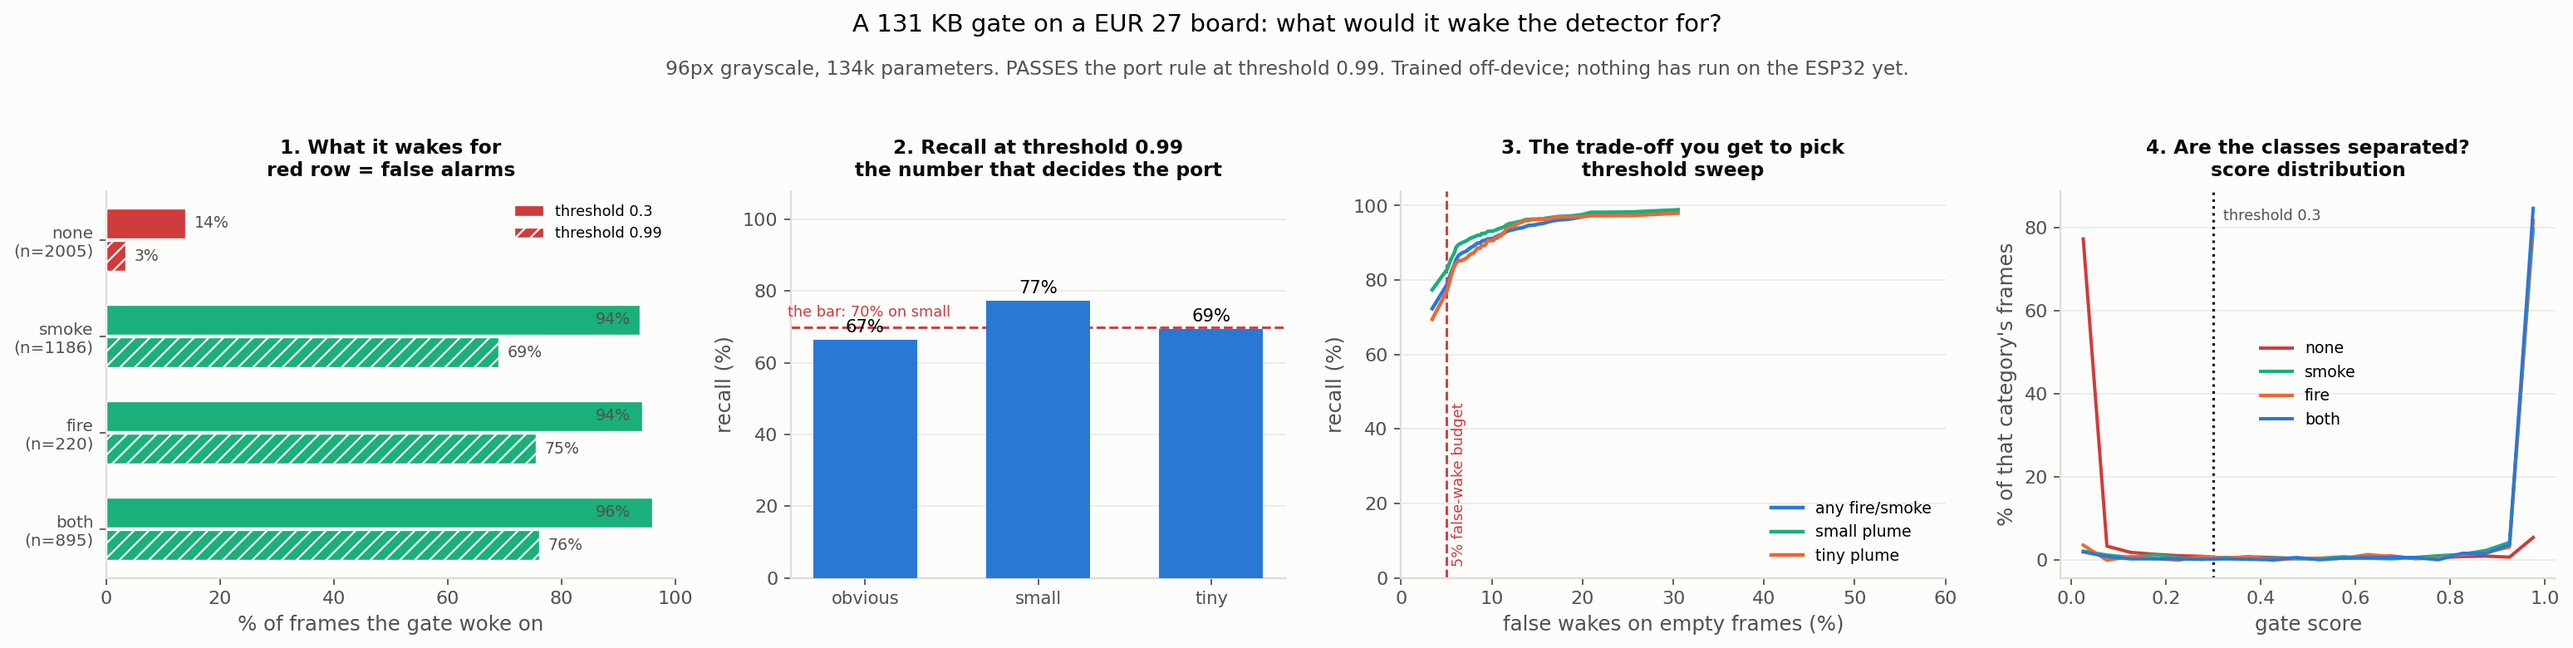
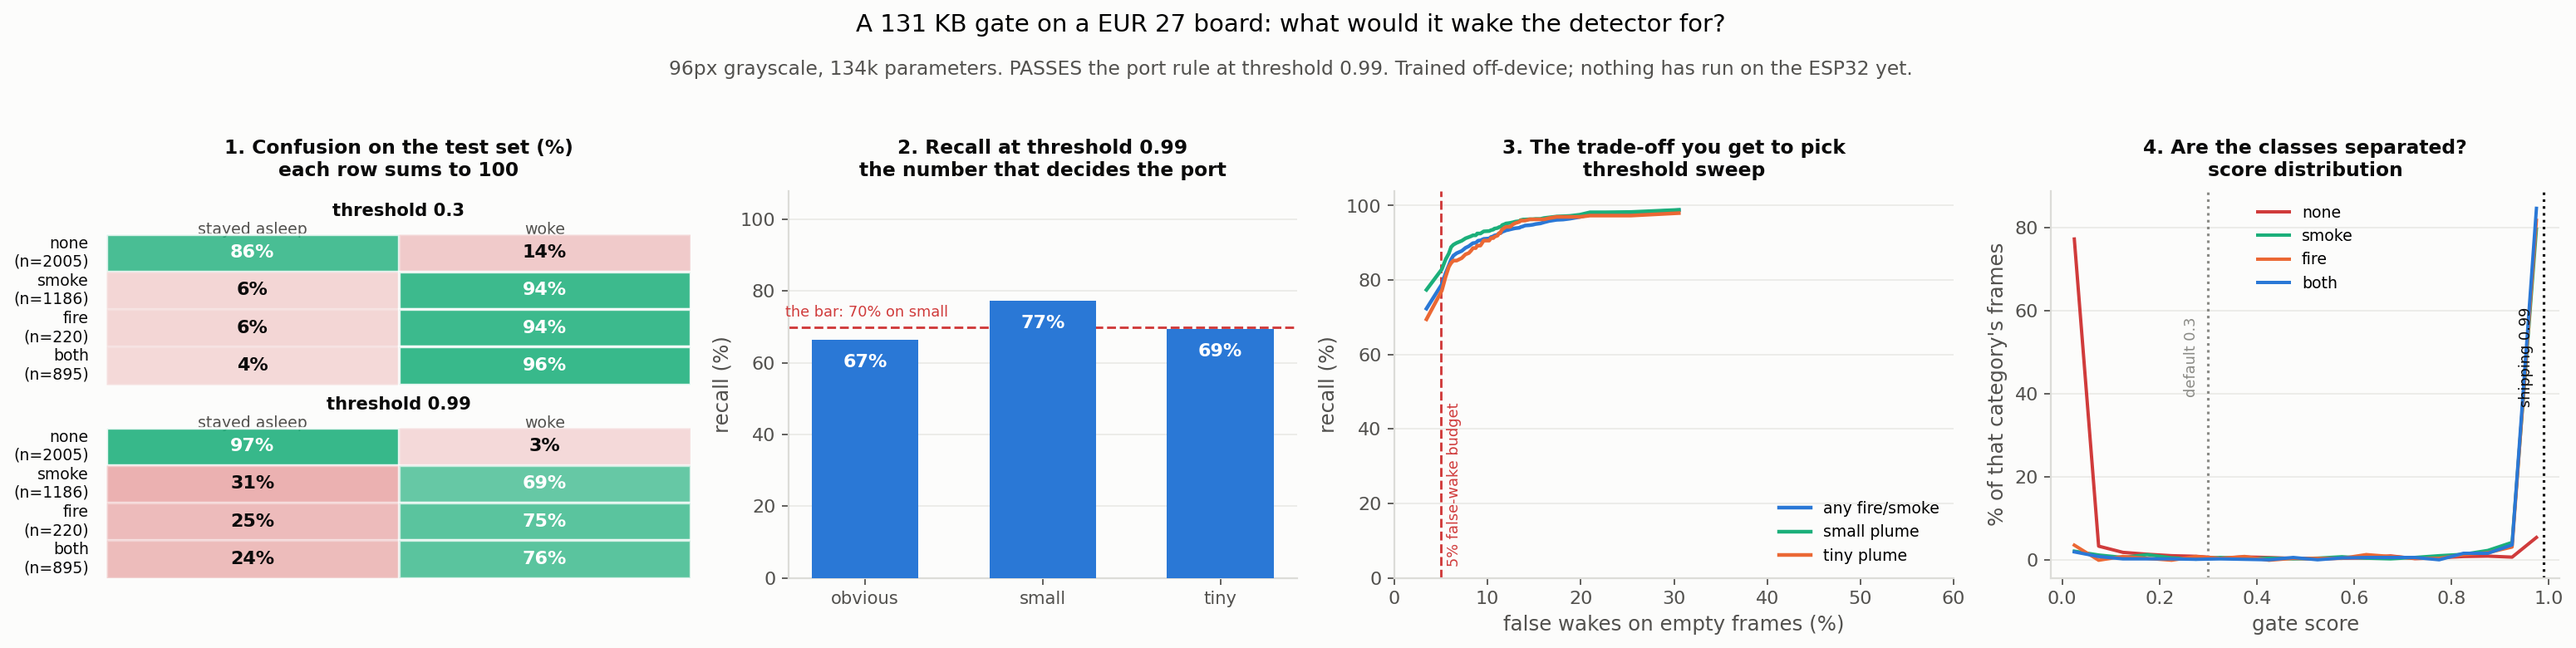
XP15: draw the confusion as a matrix, not as bars
Bars made the reader compare lengths across four categories to work out what the
gate does; a row-normalised matrix says it directly, and one cell reads "of the
frames that really were this, the gate did that".

Row-normalised on purpose: 'none' has 2005 frames and 'fire' has 220, so raw
counts would colour the class balance rather than the behaviour. Cells are green
where the gate did the right thing and red where it did not, which differs by row
-- for 'none' the correct answer is to stay asleep, for every other row it is to
wake -- so the diagonal is not the good one and colouring by position would be
wrong.

Both thresholds are shown stacked because they are two different products: 0.3
wakes on 94-96% of real fires and cries wolf on one empty frame in seven, 0.99
holds false alarms to 3% and sleeps through a quarter of them.

Also: panel 2's value labels move inside the bars, since 'obvious' lands at 67%
against a 70% rule line and any label above the bar collided with it; and panel 4
now marks the shipping threshold as well as the default it was scored at.

diff --git a/analysis/make_figures.py b/analysis/make_figures.py
@@ -1651,6 +1651,7 @@ def fig_xp15(records) -> Path | None:
     """
     import matplotlib.pyplot as plt
     import numpy as np
+    from matplotlib.patches import Rectangle
 
     src = sorted(RAW.glob("xp15_gate_*.json"))
     if not src:
@@ -1672,36 +1673,52 @@ def fig_xp15(records) -> Path | None:
                         f"{verdict}. Trained off-device; nothing has run on the ESP32 yet.",
                    y=1.02)
 
-    # --- 1. the confusion rows, at both operating points ---------------------
-    # Two thresholds are drawn together because they are two different products,
-    # not a tuning detail: one wakes on nearly every fire and cries wolf on one
-    # empty frame in seven, the other is quiet enough to deploy and sleeps through
-    # a quarter of real fires. Showing only one hides the choice being made.
+    # --- 1. the confusion matrix, at both operating points -------------------
+    # Row-normalised: each row is one ground-truth category and sums to 100%, so a
+    # cell reads "of the frames that were really this, the gate did that". Raw
+    # counts would say almost nothing here, since 'none' has 2005 frames and 'fire'
+    # 220 and the class balance would dominate every colour.
+    #
+    # Both thresholds are drawn because they are two different products rather than
+    # a tuning detail: one wakes on nearly every fire and cries wolf on one empty
+    # frame in seven, the other is quiet enough to deploy and sleeps through a
+    # quarter of real fires.
     ax = axes[0]
     op = d.get("metrics_at_operating_point")
     rows = [c for c in ("none", "smoke", "fire", "both") if c in conf]
-    ys = np.arange(len(rows))[::-1]
-    h = 0.34 if op else 0.6
-    series = [(conf, m["threshold"], None)]
-    if op:
-        series.append((op["confusion_pct"], op["threshold"], "///"))
-    for k, (cm, thr, hatch) in enumerate(series):
-        off = (0.5 - k) * h if len(series) > 1 else 0
-        woke = [cm[c]["woke_pct"] for c in rows]
-        cols = [style.RED if c == "none" else style.AQUA for c in rows]
-        ax.barh(ys + off, woke, height=h * 0.92, color=cols, hatch=hatch,
-                edgecolor="white", linewidth=0.6, zorder=3, label=f"threshold {thr}")
-        for y, w in zip(ys, woke):
-            ax.text(min(w + 1.5, 86), y + off, f"{w:.0f}%", va="center",
+    mats = [(conf, m["threshold"])] + ([(op["confusion_pct"], op["threshold"])] if op else [])
+
+    nr = len(rows)
+    ax.set_xlim(0, 2); ax.set_ylim(0, len(mats) * (nr + 1.15))
+    ax.axis("off")
+
+    for k, (cm, thr) in enumerate(mats):
+        y0 = (len(mats) - 1 - k) * (nr + 1.15)
+        ax.text(1, y0 + nr + 0.62, f"threshold {thr}", ha="center", va="center",
+                fontsize=9.5, fontweight="bold", color=style.INK)
+        for col, key, lab in ((0, "asleep_pct", "stayed asleep"), (1, "woke_pct", "woke")):
+            ax.text(col + 0.5, y0 + nr + 0.12, lab, ha="center", va="center",
                     fontsize=8.5, color=style.INK_2)
-    ax.set_yticks(ys)
-    ax.set_yticklabels([f"{c}\n(n={conf[c]['n']})" for c in rows], fontsize=9)
-    ax.set_xlim(0, 100)
-    ax.set_xlabel("% of frames the gate woke on")
-    ax.set_title("1. What it wakes for\nred row = false alarms", fontsize=10.5, pad=8)
-    # Upper right: the 'none' row is the short one, so that corner is free.
-    ax.legend(fontsize=8, frameon=False, loc="upper right")
-    style.tidy(ax); ax.grid(axis="y", visible=False)
+        for r, c in enumerate(rows):
+            y = y0 + nr - 1 - r
+            for col, key in ((0, "asleep_pct"), (1, "woke_pct")):
+                v = cm[c][key]
+                # Green where the gate did the right thing, red where it did not:
+                # for 'none' the correct answer is to stay asleep, for every other
+                # row it is to wake.
+                good = (key == "asleep_pct") if c == "none" else (key == "woke_pct")
+                base = style.AQUA if good else style.RED
+                ax.add_patch(Rectangle((col, y), 1, 1, facecolor=base,
+                                       alpha=0.15 + 0.75 * v / 100,
+                                       edgecolor="white", linewidth=1.5, zorder=3))
+                ax.text(col + 0.5, y + 0.5, f"{v:.0f}%", ha="center", va="center",
+                        fontsize=10, fontweight="bold",
+                        color="white" if v > 55 else style.INK, zorder=4)
+            ax.text(-0.06, y + 0.5, f"{c}\n(n={cm[c]['n']})", ha="right", va="center",
+                    fontsize=8.5, color=style.INK)
+
+    ax.set_title("1. Confusion on the test set (%)\neach row sums to 100",
+                 fontsize=10.5, pad=8)
 
     # --- 2. recall by how big the plume is ----------------------------------
     ax = axes[1]
@@ -1712,7 +1729,8 @@ def fig_xp15(records) -> Path | None:
     xs = np.arange(len(vals))
     ax.bar(xs, [v * 100 for _, v in vals], width=0.6, color=style.BLUE, zorder=3)
     for x, (_, v) in zip(xs, vals):
-        ax.text(x, v * 100 + 2, f"{v*100:.0f}%", ha="center", fontsize=9.5)
+        ax.text(x, v * 100 - 4, f"{v*100:.0f}%", ha="center", va="top", fontsize=10,
+                color="white", fontweight="bold", zorder=4)
     ax.axhline(70, color=style.RED, linestyle="--", linewidth=1.3, zorder=2)
     ax.text(-0.45, 73, "the bar: 70% on small", ha="left", fontsize=8,
             color=style.RED)
@@ -1756,9 +1774,11 @@ def fig_xp15(records) -> Path | None:
             # raw counts would show only the class balance.
             ax.plot(centres, h / max(h.sum(), 1) * 100, "-", color=col,
                     linewidth=1.8, label=c, zorder=3)
-    ax.axvline(m["threshold"], color=style.INK, linestyle=":", linewidth=1.4, zorder=2)
-    ax.text(m["threshold"] + 0.02, ax.get_ylim()[1] * 0.92,
-            f"threshold {m['threshold']}", fontsize=8, color=style.INK_2)
+    for thr, lab, col in ((m["threshold"], "default", style.MUTED),
+                          ((op or m)["threshold"], "shipping", style.INK)):
+        ax.axvline(thr, color=col, linestyle=":", linewidth=1.4, zorder=2)
+        ax.text(thr - 0.02, ax.get_ylim()[1] * 0.55, f"{lab} {thr}", fontsize=8,
+                color=col, rotation=90, ha="right", va="center")
     ax.set_xlabel("gate score")
     ax.set_ylabel("% of that category's frames")
     ax.set_title("4. Are the classes separated?\nscore distribution", fontsize=10.5, pad=8)
